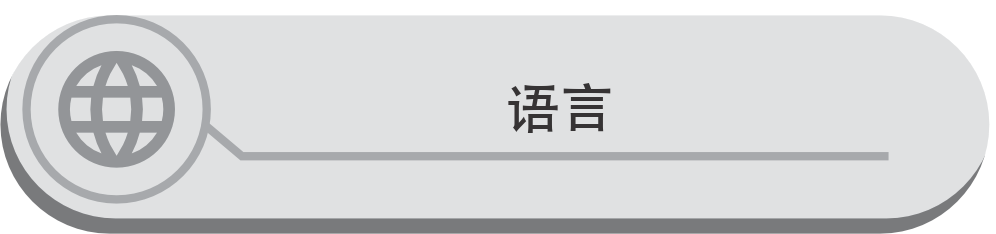
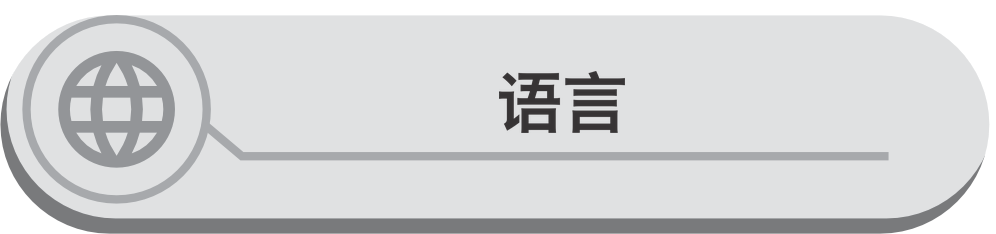
主菜单按钮中文放大加粗，并补上生成器
反馈「首页按钮字太小看不清」。文字烤在 PNG 里（996×234，FancyMenu 直接贴图），
语言文件改不了，只能重绘：

- 字高 49px → 62px（+27%），字重常规 → 中粗（Hiragino Sans GB W6）
- 底边仍锚在 y=132，与下划线、左侧图标的相对关系不变
- 水平位置统一居中于下划线中点（x=562）。第一版逐图沿用英文原文的中心，
  结果「选项/退出」与「单人游戏/租用服务器」的中心相差近 60px，字放大后更扎眼

第一版是手工渲染没留脚本，所以这类反馈来了无从改起。补 scripts/gen_menu_buttons.py：
擦除矩形取常量（逐像素量过：x[280..900] y[50..143] 内只有文字，框外是纯背景色，
图标止于 x≈250、下划线自 y≈146 起，都不在框内），因此脚本可反复重跑而不会越擦越多
——实测连跑三次输出 md5 一致。下次调字号只改 TARGET_H 一个数。

字体是 macOS 自带的，Linux CI 上没有，故不做 CI 漂移检查；改动后本机重跑即可。
贴图改动需完整重启游戏才生效。

Changed region(s): [[0.498, 0.2991, 0.6536, 0.5684]]

diff --git a/scripts/gen_menu_buttons.py b/scripts/gen_menu_buttons.py
@@ -1,0 +1,137 @@
+#!/usr/bin/env python3
+# -*- coding: utf-8 -*-
+# atm10-zh-cn — All the Mods 10 简体中文汉化补丁「绿油油版」
+# Copyright (C) 2026 星野夢華 (Hoshino Yumeka)
+# SPDX-License-Identifier: GPL-3.0-or-later
+"""主菜单按钮图上的中文文字生成器。
+
+ATM 的主菜单按钮把文字**烤进了 PNG**（996×234，FancyMenu 直接贴图），
+语言文件够不着，只能重绘。本脚本负责「擦掉文字区、重新写中文」这一步。
+
+## 为什么要有这个脚本
+
+第一版是手工渲染的，没留脚本，于是「字太小看不清」这种反馈来了以后无从改起。
+现在把参数固化在这里：**擦除矩形是常量**，所以脚本可以反复跑而不会越擦越多
+（不是去检测已有文字再擦——那样每跑一次都会啃掉一点边缘）。
+
+## 常量怎么来的
+
+对 14 张图逐像素量过：
+- 文字区 x[280..900] y[50..143] 之内**只有文字**，矩形外一圈是纯背景色；
+  左边的圆形图标止于 x≈250，下划线自 y≈146 起（akliz 是 153），都不在矩形内。
+- 背景在该区域是纯色（灰态 #DFE0E1 / 高亮态 #CECFD1），所以直接填色即可抹掉。
+- 文字为实心单色，取区域内最深的像素即该图的文字色（模组=橙、Akliz=红，其余近黑）。
+
+字号与字重：原先字高约 49px、常规字重，玩家反馈太小太淡。
+现为 Hiragino Sans GB **W6**（比原来粗一档）、字高 **62px**（+27%），底边仍锚在 y=132
+（与下划线的间距不变）。
+
+水平位置改为**统一居中于下划线**（x[236..888] 的中点 562）。第一版是逐图沿用英文原文的
+中心，结果 2 字标签（选项/退出）与 4~5 字标签（单人游戏/租用服务器）中心相差近 60px；
+字放大后这个错位更明显，故一并对齐。
+
+用法:
+    python3 scripts/gen_menu_buttons.py            # 重新生成 14 张
+    python3 scripts/gen_menu_buttons.py --check    # 只校验尺寸/未越界，不写文件
+"""
+import sys
+from pathlib import Path
+
+try:
+    from PIL import Image, ImageDraw, ImageFont
+except ImportError:
+    sys.exit('需要 Pillow：python3 -m pip install Pillow')
+
+ROOT = Path(__file__).resolve().parent.parent
+ASSETS = ROOT / 'config' / 'fancymenu' / 'assets'
+
+# 字体按顺序找第一个存在的。玩家反馈「太细」，所以一律取中粗那一档（W6 / Medium）。
+# 注：这是 macOS 自带字体，Linux CI 上没有，故本脚本不进 CI 漂移检查，改动后请本机重跑。
+FONT_CANDIDATES = [
+    ('/System/Library/Fonts/Hiragino Sans GB.ttc', 2),   # 冬青黑体简体中文 W6
+    ('/System/Library/Fonts/STHeiti Medium.ttc', 1),     # 黑体-简 Medium
+    ('/System/Library/Fonts/PingFang.ttc', 4),           # 苹方-简 Medium（部分系统才有）
+]
+FONT, FONT_INDEX = next(((f, i) for f, i in FONT_CANDIDATES if Path(f).exists()),
+                        (None, 0))
+if FONT is None:
+    sys.exit('找不到可用的中文字体，候选：%s' % [f for f, _ in FONT_CANDIDATES])
+TARGET_H = 62             # 目标字高（原 49）
+SS = 4                    # 超采样倍数，保证描边和原图一样顺滑
+
+# 擦除矩形（常量，见模块 docstring）：其内只有文字，其外是纯背景
+BOX = (280, 50, 900, 143)
+BASELINE_BOTTOM = 132     # 文字底边锚点，保持与下划线的间距不变
+CENTER_X = 562            # 下划线 x[236..888] 的中点，所有按钮统一居中于此
+
+BUTTONS = {
+    'singleplayer': '单人游戏',
+    'multiplayer':  '多人游戏',
+    'options':      '选项',
+    'exit':         '退出',
+    'mods':         '模组',
+    'language':     '语言',
+    'akliz':        '租用服务器',
+}
+# GitHub / Reddit / Discord 等品牌按钮保持英文，不在此列
+
+
+def text_color(im):
+    """区域内最深的实心像素 = 该图的文字色（模组橙 / Akliz 红 / 其余近黑）"""
+    px = im.load()
+    best, col = 10 ** 9, None
+    for y in range(BOX[1], BOX[3] + 1):
+        for x in range(BOX[0], BOX[2] + 1):
+            r, g, b, a = px[x, y]
+            if a > 200 and r + g + b < best:
+                best, col = r + g + b, (r, g, b, 255)
+    return col
+
+
+def render(word, color):
+    """把词渲染成一张紧贴文字的 RGBA 图（超采样后缩回）"""
+    # 先按目标字高反推字号：CJK 字面高度约为字号的 0.86
+    size = int(round(TARGET_H / 0.86))
+    for _ in range(8):                       # 迭代校正到刚好 TARGET_H
+        f = ImageFont.truetype(FONT, size * SS, index=FONT_INDEX)
+        tmp = Image.new('RGBA', (size * SS * (len(word) + 2), size * SS * 3), (0, 0, 0, 0))
+        ImageDraw.Draw(tmp).text((size * SS, size * SS), word, font=f, fill=color)
+        bb = tmp.getbbox()
+        h = (bb[3] - bb[1]) / SS
+        if abs(h - TARGET_H) < 0.6:
+            break
+        size = max(1, int(round(size * TARGET_H / h)))
+    glyph = tmp.crop(bb)
+    return glyph.resize((max(1, round(glyph.width / SS)), max(1, round(glyph.height / SS))),
+                        Image.LANCZOS)
+
+
+def main(check_only=False):
+    n = 0
+    for stem, word in sorted(BUTTONS.items()):
+        for variant in ('color', 'gray'):
+            p = ASSETS / f'{stem}_{variant}.png'
+            if not p.exists():
+                print(f'  跳过（不存在）: {p.name}')
+                continue
+            im = Image.open(p).convert('RGBA')
+            bg = im.getpixel((930, 60))           # 文字区右侧空白，纯背景
+            col = text_color(im)
+            glyph = render(word, col)
+            x = int(round(CENTER_X - glyph.width / 2))
+            y = BASELINE_BOTTOM - glyph.height + 1
+            if x < BOX[0] or x + glyph.width > BOX[2] or y < BOX[1]:
+                sys.exit(f'❌ {p.name}: 文字 x[{x}..{x + glyph.width}] y[{y}..] 越出擦除矩形 {BOX}')
+            if not check_only:
+                ImageDraw.Draw(im).rectangle(BOX, fill=bg)
+                im.alpha_composite(glyph, (x, y))
+                im.save(p)
+            print('  %-24s %s  字高=%d 宽=%d  x[%d..%d] y[%d..%d] 色=%s'
+                  % (p.name, word, glyph.height, glyph.width,
+                     x, x + glyph.width, y, y + glyph.height, col[:3]))
+            n += 1
+    print(('校验通过' if check_only else '已生成') + f' {n} 张')
+
+
+if __name__ == '__main__':
+    main(check_only='--check' in sys.argv)

diff --git a/README.md b/README.md
@@ -42,7 +42,7 @@
 | 资源蜜蜂（蜂名 / 基因 / 蜂笼 / 服务器数据迁移）| **467 种蜂** |
 | 结构罗盘 / 自然罗盘的结构名 | **799 条** |
 | 任务书（FTB Quests）| 官方中文 + 本包补丁 **998 条**。补章节缺口 / 标题副标题；**术语以「任务绑定的物品真名」为单一真源逐条反查对齐**（4168 条带物品的任务全扫，改 161 条标题——照任务书去 JEI 搜不到东西是最伤的 bug）；品牌与维度名按模组自译名 / 社区标准统一（Allthemodium→ATM、Just Dire Things→可怖之物、挖矿维度、彼岸/异界不混用）；修维度写错、配方写错（Insanite/Inanite 混为一谈导致合不出来）等误导性硬错误；修 3 处 `&`+中文 非法颜色码崩溃 |
-| **主菜单首页**（本版新增）| 重绘 **14 张**按钮图为中文：单人游戏 / 多人游戏 / 选项 / 退出 / 模组 / 语言 / 租用服务器 |
+| **主菜单首页**（本版新增）| 重绘 **14 张**按钮图为中文：单人游戏 / 多人游戏 / 选项 / 退出 / 模组 / 语言 / 租用服务器（字号与字重按玩家反馈调大调粗，生成器见 `scripts/gen_menu_buttons.py`）|
 | Jonn's Trophies 奖杯名 | **2.5 万条**（奖杯名是烤进 NBT 的字符串，但模组把它当翻译键用，所以能翻；四种烘焙形态全覆盖）|
 | 机制层修复 | 传送石碑维度名、神秘农业作物名、闪光生物名等 |
 

diff --git a/CHANGELOG.md b/CHANGELOG.md
@@ -245,6 +245,16 @@
   `致谢与技术说明.md`——保留 BBSMC 底本致谢与 CFPA 的 CC BY-NC-SA 4.0 署名，
   说明 VaultPatcher / data 覆盖 / KubeJS 三类改动的原理，反馈渠道指向本项目 Issues。
 
+- **主菜单按钮的中文放大加粗**：玩家反馈「首页按钮字太小看不清」。文字是烤进 PNG 的
+  （996×234，FancyMenu 直接贴图，语言文件够不着），改为字高 **49px → 62px（+27%）**、
+  字重由常规提到**中粗**（Hiragino Sans GB W6）。底边仍锚在 y=132，与下划线和图标的
+  相对关系不变。顺带把水平位置**统一居中于下划线**——第一版逐图沿用英文原文的中心，
+  导致 2 字标签（选项/退出）与 4~5 字标签（单人游戏/租用服务器）中心相差近 60px，
+  放大后错位更扎眼。
+  这批图第一版是手工渲染、没留脚本，反馈来了无从改起；现补 `scripts/gen_menu_buttons.py`，
+  擦除矩形是常量因而可反复重跑（实测两次输出 md5 一致），下次调字号只改一个数。
+  **改动需完整重启游戏**才生效（贴图不走 F3+T 重载）。
+
 **已知限制**
 
 - **Sodium「粒子效果」里的原版粒子名无法汉化**：sodium-extra 0.9.3 自身问题
